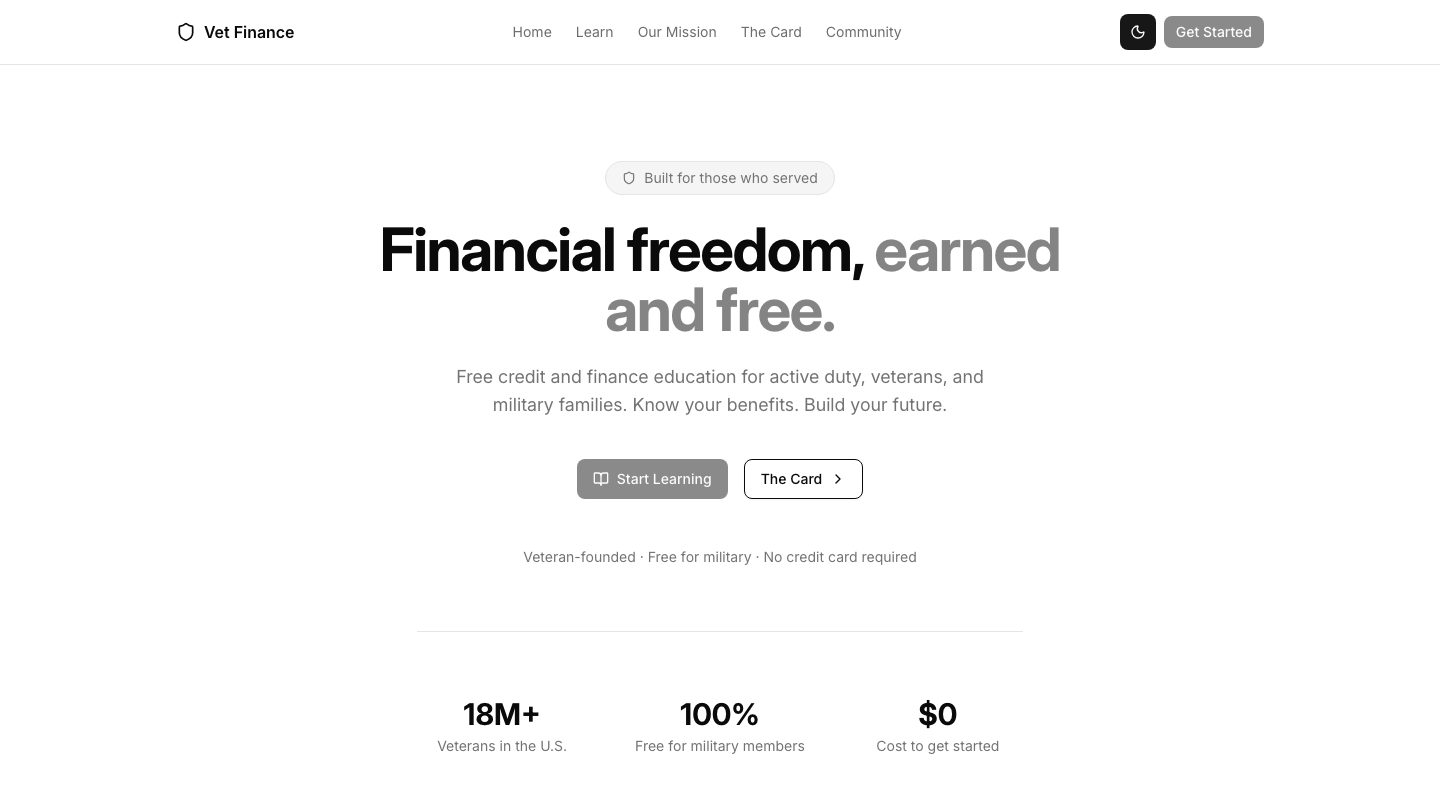
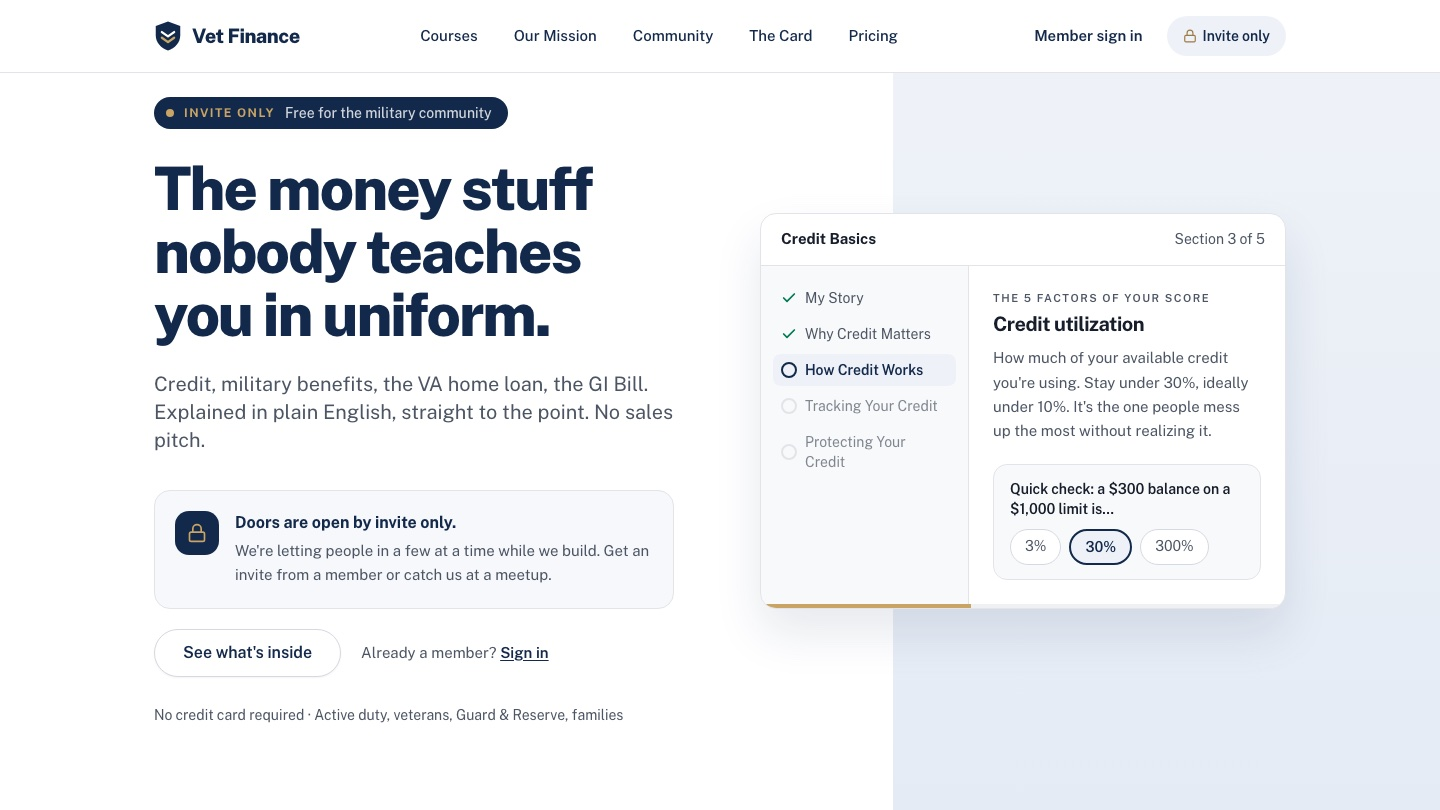
Add Thoughtspun and Hyperflight projects, update Vet Finance launch
- Vet Finance: officially launched, invite only, 12 members; courses live; new screenshot
- Add Thoughtspun (Capacitor app in progress) and Hyperflight (client) with screenshots
- Add Open Graph skill and tag; fill Motion & Mobile deployed-in list

diff --git a/components/sections/Projects.tsx b/components/sections/Projects.tsx
@@ -57,11 +57,11 @@ const PROJECTS: ProjectData[] = [
   {
     id: "PRJ-005",
     title: "Vet Finance",
-    description: "A free financial education platform for U.S. military members and veterans — credit cards, credit scores, and financial literacy built to fight veteran homelessness.",
+    description: "A free financial education platform for U.S. military members and veterans — officially launched, invite only, with 12 members already inside. Built to fight veteran homelessness.",
     fullDescription:
-      "Veterans are one of the most underserved groups when it comes to financial literacy — and that gap is a direct pipeline to homelessness. Vet Finance is a free education platform I'm building to close it. The focus is credit: how it works, how to use it strategically, and how to build a strong financial foundation coming out of the military. The layout and platform architecture are live. The education courses are next. Long-term vision goes further — I want to launch a credit card designed specifically for veterans, with three tiers and a rewards structure that gives back to active troops. No bank has done this right. I want to be the one who does. This one isn't about a paycheck. It's about solving something real.",
+      "Veterans are one of the most underserved groups when it comes to financial literacy — and that gap is a direct pipeline to homelessness. Vet Finance is a free education platform I built to close it. It's officially out — invite only, and 12 members are already inside. The courses are live: Credit Basics, Credit Cards 101, Debt Traps, and Military Benefits You Earned — short sections, real examples, quizzes, and no sales pitch. Finish courses and you unlock more: a step-by-step \"What Would I Do If I…\" playbook and a resource library of videos, tools, and apps. I'm letting people in a few at a time while I build, through member invites and meetups. Long-term vision goes further — I want to launch a credit card designed specifically for veterans, with three tiers and a rewards structure that gives back to active troops. No bank has done this right. I want to be the one who does. This one isn't about a paycheck. It's about solving something real.",
     tech: [A11Y_TAG, "Next.js", "TypeScript", "Tailwind", "Vercel"],
-    status: "BETA",
+    status: "INVITE ONLY",
     badge: "INITIATIVE",
     demo: "/projects/vet-finance.jpg",
     links: { live: "https://vet-finance-omega.vercel.app/", github: "" },
@@ -106,11 +106,34 @@ const PROJECTS: ProjectData[] = [
     description: "Bilingual real estate site for a Central New Jersey REALTOR® — built to boost his exposure, drive local traffic, and turn visitors into buyers, sellers, and renters.",
     fullDescription:
       "Miguel is a bilingual REALTOR® with Halo Realty serving Perth Amboy, South Amboy, and the surrounding Central Jersey towns. He needed more than a listing profile — he needed a home base that brings people to him. I built a full English and Spanish site so every visitor gets the experience in their own language, with services broken out for buying, selling, rentals, and commercial, a recent sales showcase, and a service-area section covering twelve towns. Under the hood it's built for local search: structured data that tells Google exactly who he is and where he works, proper language tagging for both versions, and clear calls to action on every page — call, email, or find out what your home is worth. This is an active client build. Miguel and I are shaping it together as he tells me what he needs, so the live site keeps evolving.",
-    tech: [A11Y_TAG, "Next.js", "Tailwind", "i18n (EN/ES)", "SEO", "Vercel"],
+    tech: [A11Y_TAG, "Next.js", "Tailwind", "i18n (EN/ES)", "SEO", "Open Graph", "Vercel"],
     status: "IN PROGRESS",
     badge: "CLIENT",
     demo: "/projects/buy-with-miguel.jpg",
     links: { live: "https://buy-with-miguel.vercel.app/en", github: "" },
+  },
+  {
+    id: "PRJ-010",
+    title: "Thoughtspun",
+    description: "Untangle what's on your mind. A visual web chart for thoughts, goals, and decisions — inspired by the storytelling web charts my middle school teacher taught us. Native app coming soon.",
+    fullDescription:
+      "In middle school, a teacher taught us to plan stories with a web chart — the main idea in the center, everything else branching out from it. I never forgot it. Thoughtspun takes that idea and turns it into a tool for untangling what's on your mind. You put your life, a project, or a decision in the center bubble and branch it out with six bubble types — areas, goals, blockers, root causes, actions, and thoughts — each with its own color and icon. Then you tie it together with threads: link bubbles across branches, add a note explaining why they connect, and hover a thread to see everything it touches. Actions can be checked off so you see progress on every chart, and templates like Life Map and Problem Solver walk you from a goal to your first step. Drag whole branches, collapse, search, tidy up, undo, redo — and it's touch-friendly, with pinch, drag, and tap on phones. Charts are private to your account. I'm still building it, and next I'm using Capacitor to take the same codebase and ship it as a native iOS and Android app.",
+    tech: [A11Y_TAG, "Next.js", "Tailwind", "Motion", "Capacitor", "Vercel"],
+    status: "IN PROGRESS",
+    demo: "/projects/thoughtspun.jpg",
+    links: { live: "https://mind-web-chart.vercel.app/", github: "" },
+  },
+  {
+    id: "PRJ-011",
+    title: "Hyperflight",
+    description: "Professional home base for a New Jersey boxing coach, fitness coach, and filmmaker with 180K+ followers — built so brands can reach him the right way.",
+    fullDescription:
+      "Hyperflight is a pro boxing coach, fitness coach, and filmmaker with 140K followers on TikTok and 180K+ across platforms. Brands were already reaching out — he needed a professional place to send them. I built a site that works like a pitch: his services (brand partnerships, Hyper Films video production, boxing coaching, and fitness training), real audience stats, past brand work, and a clear path to get in touch. There's a downloadable media kit so a brand can view or save his numbers and offerings in one file, and his email is a click-to-reveal with one-tap copy. I also set up Open Graph previews, so when he sends his link to a business it unfurls as a clean, branded card — like handing over a digital business card. This is a client build for an influencer I work with.",
+    tech: [A11Y_TAG, "Next.js", "Tailwind", "Motion", "Open Graph", "SEO", "Vercel"],
+    status: "DEPLOYED",
+    badge: "CLIENT",
+    demo: "/projects/hyperflight.jpg",
+    links: { live: "https://hyperflight-orcin.vercel.app/", github: "" },
   },
 ];
 

diff --git a/components/sections/Skills.tsx b/components/sections/Skills.tsx
@@ -66,7 +66,7 @@ const CATEGORIES: Category[] = [
     color: "cyan",
     description:
       "Where I spend most of my time. I build UIs that feel alive — responsive, polished, and fast. The frontend is where code meets the user, and that handoff matters. If someone notices the interface, it worked.",
-    usedIn: ["QVIL Studios", "DAV Portfolio", "Tex N Wash"],
+    usedIn: ["QVIL Studios", "DAV Portfolio", "Tex N Wash", "Hyperflight", "Buy With Miguel"],
     skills: [
       { name: "React",      level: 70, label: "PROFICIENT", icon: "⚛" },
       { name: "Next.js",    level: 65, label: "PROFICIENT", icon: "▲" },
@@ -75,6 +75,7 @@ const CATEGORIES: Category[] = [
       { name: "Tailwind",   level: 75, label: "PROFICIENT", icon: "≋" },
       { name: "shadcn/ui",  level: 70, label: "PROFICIENT", icon: "◈" },
       { name: "TypeScript", level: 55, label: "DEVELOPING", icon: "TS" },
+      { name: "Open Graph", level: 55, label: "DEVELOPING", icon: "⧠" },
     ],
   },
   {
@@ -119,8 +120,8 @@ const CATEGORIES: Category[] = [
     subtitle: "EXPERIENCE LAYER",
     color: "cyan",
     description:
-      "Motion is what makes an interface feel alive instead of static. I use GSAP for timeline-driven animation and Motion for React component transitions — always purposeful, never in the way, and respectful of reduced-motion settings. Capacitor lets me take a React web app and ship it as a native iOS or Android app, and Mobbin is where I study real-world mobile patterns and user flows before I design one.",
-    usedIn: [],
+      "Motion is what makes an interface feel alive instead of static. I use GSAP for timeline-driven animation and Motion for React component transitions — always purposeful, never in the way, and respectful of reduced-motion settings. Capacitor lets me take a React web app and ship it as a native iOS or Android app — I'm using it now to bring Thoughtspun to the app stores, and Mobbin is where I study real-world mobile patterns and user flows before I design one.",
+    usedIn: ["Thoughtspun", "Hyperflight"],
     skills: [
       { name: "GSAP",       level: 50, label: "DEVELOPING", icon: "≫" },
       { name: "Motion",     level: 55, label: "DEVELOPING", icon: "↝" },

diff --git a/components/sections/Initiative.tsx b/components/sections/Initiative.tsx
@@ -32,14 +32,14 @@ const INITIATIVES: InitiativeCard[] = [
   {
     id: "INI-002",
     industry: "MILITARY / VETERANS",
-    tags: ["BETA — LIVE", "NONPROFIT VISION", "REAL PROBLEM IDENTIFIED"],
+    tags: ["OFFICIALLY LAUNCHED", "INVITE ONLY — 12 MEMBERS", "NONPROFIT VISION"],
     problem:
       "Military members leave service without financial literacy. No one teaches them how credit works, how to use credit cards strategically, or how to build a financial foundation in civilian life. That gap is a direct pipeline to veteran homelessness — and it's completely preventable.",
     built:
-      "Vet Finance — a free financial education platform built specifically for U.S. military members and veterans. Credit cards, credit scores, financial strategy, all in one place at no cost. Platform is live in beta. Education courses are in development. Long-term vision: a veteran-specific credit card with three tiers and a rewards structure that gives back to active troops.",
+      "Vet Finance — a free financial education platform built specifically for U.S. military members and veterans. Credit cards, credit scores, financial strategy, all in one place at no cost. Officially launched and invite only, with four courses live: Credit Basics, Credit Cards 101, Debt Traps, and Military Benefits You Earned. Long-term vision: a veteran-specific credit card with three tiers and a rewards structure that gives back to active troops.",
     outcome:
-      "Platform deployed and live. Education module in development. Pursuing nonprofit structure to keep it free and accessible permanently. Nobody asked me to build this. I saw the gap and I'm closing it.",
-    status: "BETA — IN DEVELOPMENT",
+      "Officially out, invite only, with 12 members already inside — letting people in a few at a time through member invites and meetups while I keep building. Pursuing nonprofit structure to keep it free and accessible permanently. Nobody asked me to build this. I saw the gap and I'm closing it.",
+    status: "LIVE — INVITE ONLY",
     statusColor: "gold",
     live: "https://vet-finance-omega.vercel.app/",
   },
